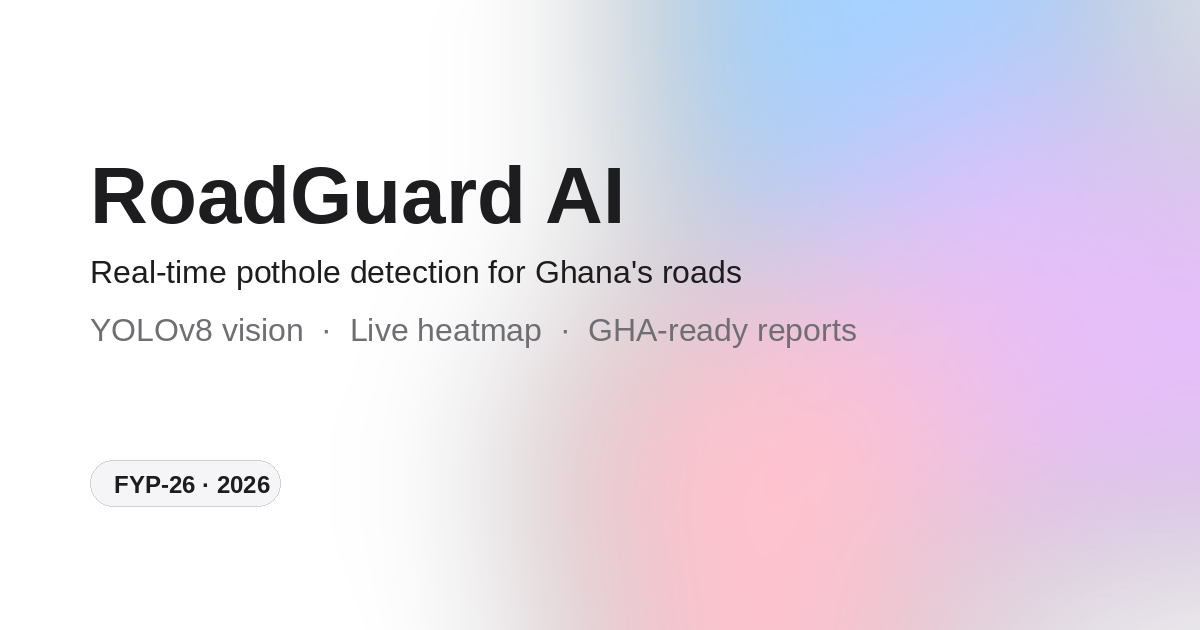
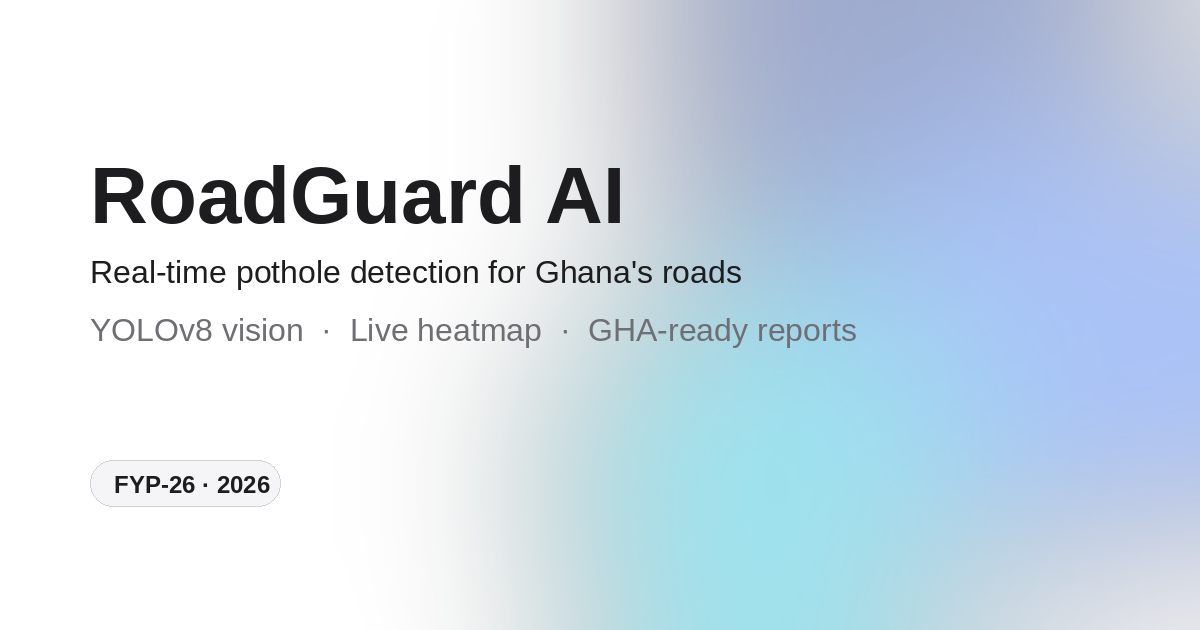
Replace purple/pink accent gradient with a professional blue-teal palette
The blue -> purple -> pink Apple Intelligence-style gradient read as
unprofessional/flashy for a road-authority tool. Replaced with a
deep-navy -> vivid-blue -> teal gradient, keeping black/white
untouched:

- Blue is the most empirically supported "trust/professional" accent
  color in UX research and is the dominant choice across enterprise
  and civic-tech software (banks, government portals, B2B SaaS) —
  a better fit than purple/pink for this audience.
- Updated the --grad-1/2/3 and --ring CSS custom properties in
  globals.css, which cascade to the gradient-clipped headline text,
  hero glow orbs, dropzone highlight, and feature-card icon badges
  automatically since they're all token-driven.
- Updated the few places with a hardcoded hex value instead of the
  token: the dashboard's region bar chart color and the heatmap's
  circle-marker fill (both were the old purple/blue), plus the
  heatmap intensity-legend's blue endpoint for consistency.
- Regenerated the favicon/apple-touch-icon/OG image with the new
  gradient so the brand mark matches on-page colors.

Verified: tsc -b and npm run build clean, npm run lint clean (same
pre-existing upstream shadcn warning as before), full Playwright
pass across all 6 routes/3 viewports with zero horizontal scroll and
zero console errors.

Claude-Session: https://claude.ai/code/session_011bYGMHHhG77pR5XCnom6ao

diff --git a/src/globals.css b/src/globals.css
@@ -3,10 +3,13 @@
 
 /*
  * RoadGuard AI theme tokens, mapped onto shadcn/ui's semantic slots.
- * Modeled on apple.com/apple-intelligence: white canvas, near-black
- * text, solid black pill buttons, flat light-gray surfaces, and the
- * blue -> purple -> pink Apple Intelligence gradient used only as an
- * accent glow / gradient-clipped headline text (never a button fill).
+ * White canvas, near-black text, solid black pill buttons, flat
+ * light-gray surfaces. Accent is a deep-navy -> vivid-blue -> teal
+ * gradient (used only for a soft glow and gradient-clipped headline
+ * text, never a button fill) — blue reads as trustworthy/professional
+ * in UX research and is the dominant accent color across enterprise
+ * and civic-tech products, which fits a road-authority tool better
+ * than a purple/pink accent.
  */
 
 @theme inline {
@@ -83,11 +86,11 @@
 
   --border: rgb(0 0 0 / 9%);
   --input: rgb(0 0 0 / 9%);
-  --ring: #bf5af2;
+  --ring: #2563eb;
 
-  --grad-1: #2997ff;
-  --grad-2: #bf5af2;
-  --grad-3: #ff6482;
+  --grad-1: #1e3a8a;
+  --grad-2: #2563eb;
+  --grad-3: #06b6d4;
 
   /* used by .section-dark (the alternating full-black feature sections) */
   --bg-dark: #000000;

diff --git a/src/pages/Heatmap.tsx b/src/pages/Heatmap.tsx
@@ -108,7 +108,7 @@ export default function Heatmap() {
               <span>Low intensity</span>
               <span
                 className="h-2.5 w-15 rounded-full"
-                style={{ background: "linear-gradient(90deg, #2997ff, #34c759, #ff9f0a, #ff3b30)" }}
+                style={{ background: "linear-gradient(90deg, #2563eb, #34c759, #ff9f0a, #ff3b30)" }}
               />
               <span>High intensity</span>
             </div>

diff --git a/src/components/RegionChart.tsx b/src/components/RegionChart.tsx
@@ -15,7 +15,7 @@ export function RegionChart({ regions }: { regions: RegionReport[] }) {
         datasets: [
           {
             data: top.length ? top.map((r) => r.total) : [0],
-            backgroundColor: "#bf5af2",
+            backgroundColor: "#2563eb",
             borderRadius: 6,
             maxBarThickness: 40,
           },

diff --git a/src/components/HeatmapView.tsx b/src/components/HeatmapView.tsx
@@ -55,7 +55,7 @@ export function HeatmapView({ points }: { points: HeatmapPoint[] }) {
           center={[p.lat, p.lng]}
           radius={3}
           color="#1d1d1f"
-          fillColor="#2997ff"
+          fillColor="#2563eb"
           weight={1}
           fillOpacity={0.7}
         >
